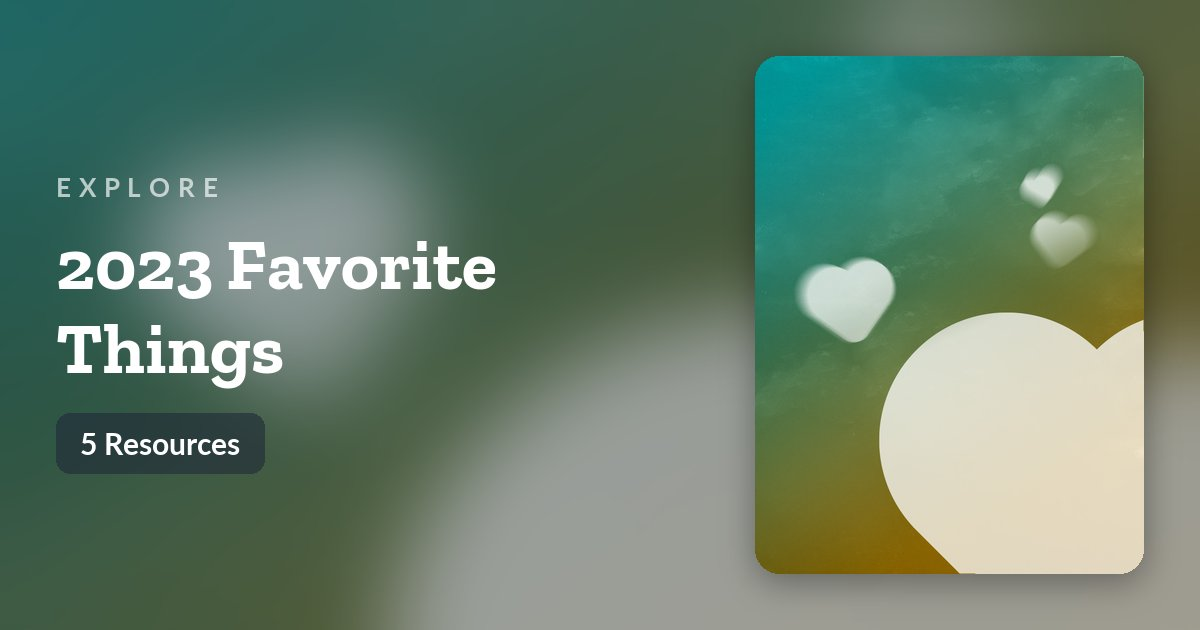
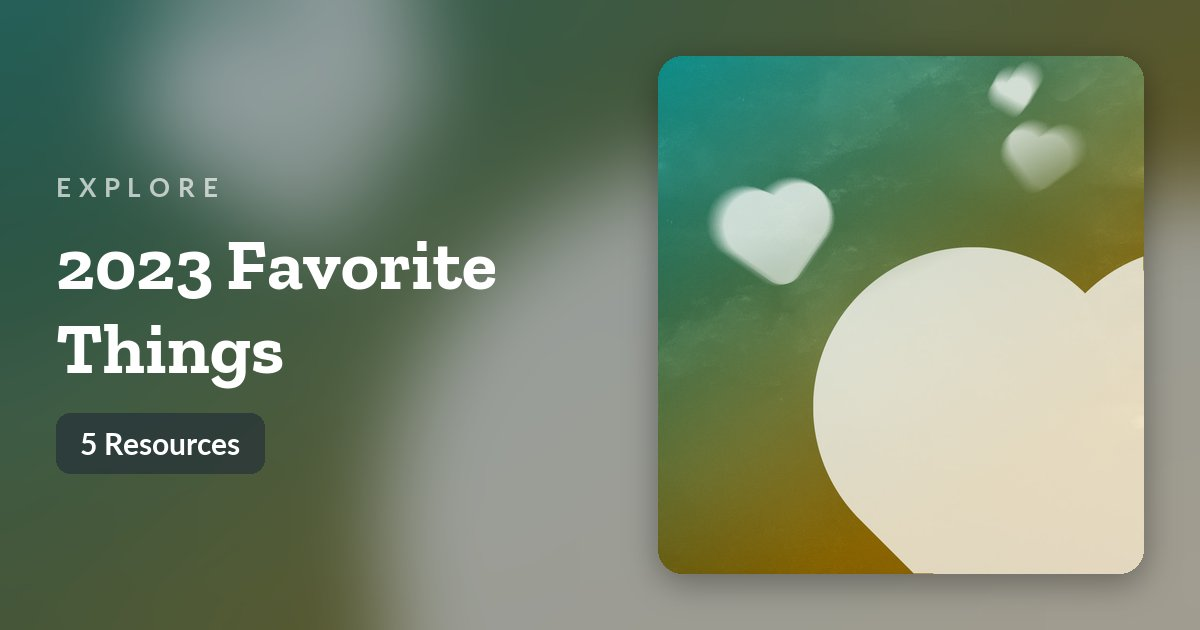
Show the tile art in collection OG images
Tiles are 3:4, so the 1.91:1 crop kept only the top ~40% of the art and
cut the subject out of several (the Pixar ball, the magnifying glass).
The tile now sits on the right over a blurred, shade-tinted wash of
itself, with the text block on the left.

The top 20% of each tile is cropped first: it's the space left for the
page's title, so dropping it lets the art show larger. Titles wrap
balanced, like CSS text-wrap: balance, so no word sits alone on a line.

relates to #568

diff --git a/scripts/generate-og-images.py b/scripts/generate-og-images.py
@@ -21,6 +21,7 @@ FONTS = Path(__file__).resolve().parent / "fonts"
 W, H = 1200, 630
 PAD = 56
 TILE_RADIUS = 24
+ART_TOP_CROP = 0.2
 NAVY_BLACK = (0x1F, 0x29, 0x37)
 WHITE = (0xFF, 0xFF, 0xFF)
 
@@ -65,6 +66,20 @@ def wrap(draw, text, font, width):
     return lines + [line]
 
 
+def wrap_balanced(draw, text, font, width):
+    # CSS text-wrap: balance -- greedy's line count, with the narrowest
+    # width that still fits in it, so no word is left alone on a line.
+    count = len(wrap(draw, text, font, width))
+    lo, hi = 0, width
+    while hi - lo > 1:
+        mid = (lo + hi) // 2
+        if len(wrap(draw, text, font, mid)) <= count:
+            hi = mid
+        else:
+            lo = mid
+    return wrap(draw, text, font, hi)
+
+
 def tracked(draw, xy, text, font, fill, tracking):
     x, y = xy
     for ch in text:
@@ -81,6 +96,8 @@ def render(meta, out_path):
     shade = NAVY_BLACK if is_light(text_rgb) else WHITE
     on_shade = NAVY_BLACK if shade == WHITE else WHITE
     art = Image.open(TILES / meta["tile-image"]).convert("RGB")
+    # The top of each tile is left empty for the page's title; drop it here.
+    art = art.crop((0, round(art.height * ART_TOP_CROP), art.width, art.height))
 
     # Background: the art blurred to a wash, tinted toward the shade so
     # text-color, picked for the art, still reads on it.
@@ -101,7 +118,7 @@ def render(meta, out_path):
 
     # Text block, vertically centred in the space left of the tile.
     measure = ImageDraw.Draw(canvas)
-    lines = wrap(measure, meta["title"], title_font, tx - PAD * 2)[:3]
+    lines = wrap_balanced(measure, meta["title"], title_font, tx - PAD * 2)[:3]
     y = (H - (len(lines) * TITLE_LEADING + 60)) // 2 - 30
 
     text = layer()
